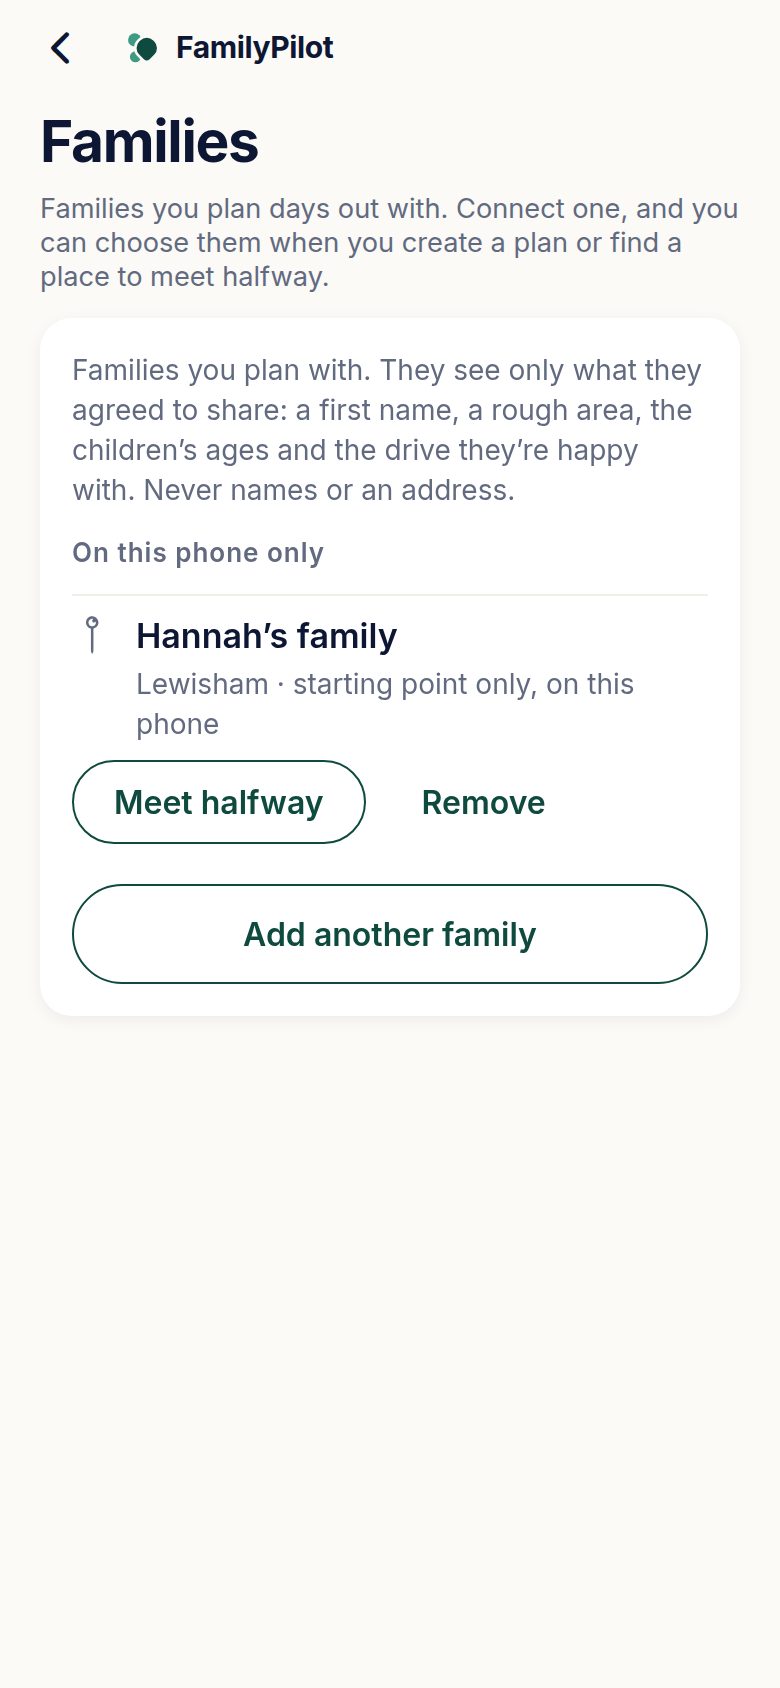
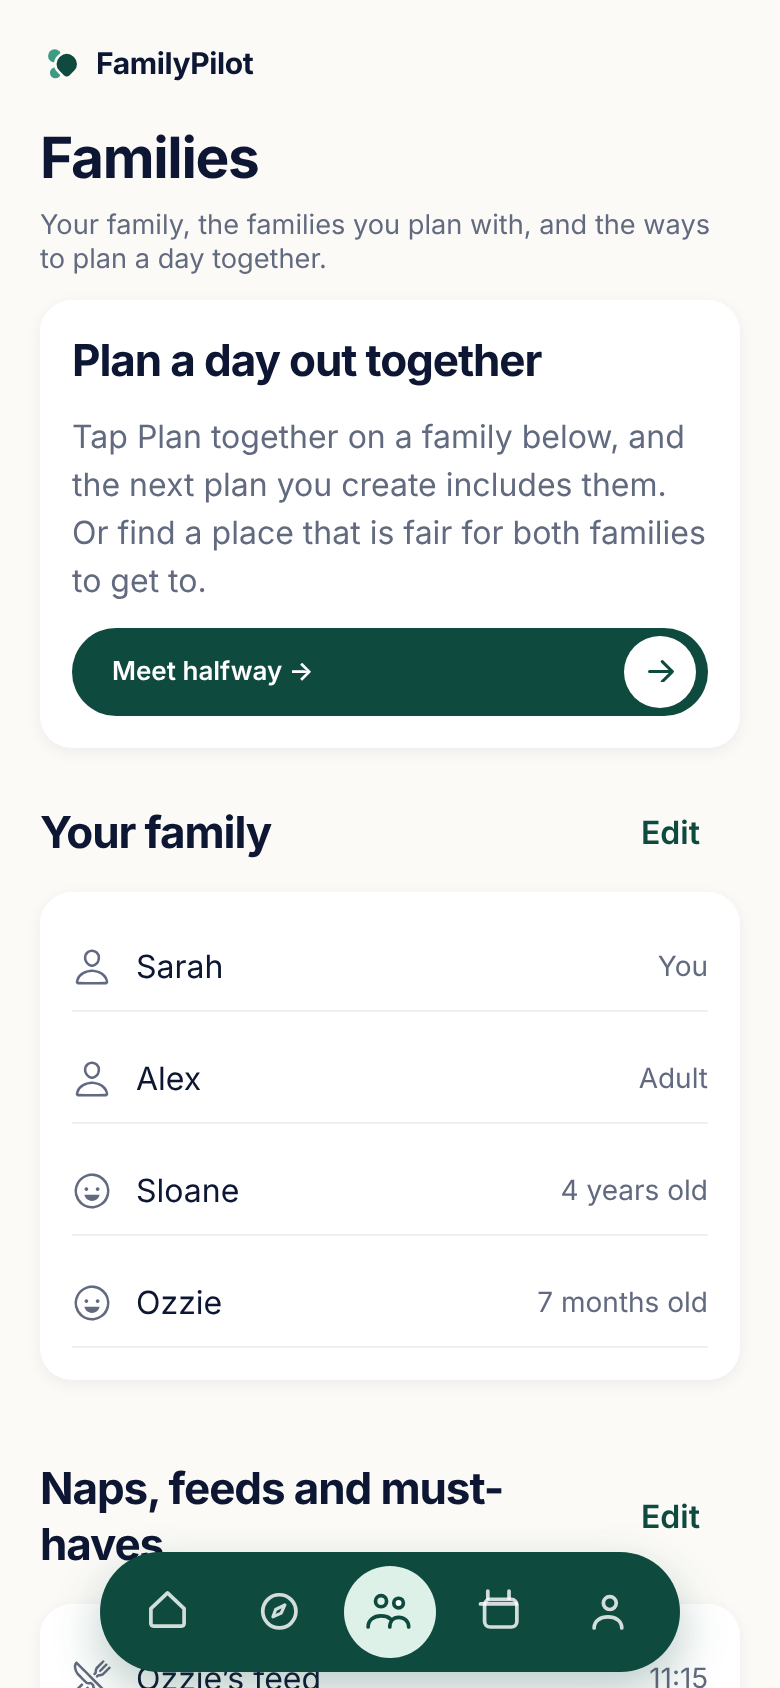
Verification pass: scripts follow the new navigation, timeline model polish, refreshed screenshots and review notes
The account journey now drives the Families tab (72 checks, including that a
connected family's card carries no child name while the owner's own household
shows under Your family) and the nav-clearance check scrolls from the lower
part of the screen so the shortest phone is measured on its list rather than
its fixed header. The timeline says drive on every journey leg, keeps the
lunch row to the walk alternative and the place's facts, and shows a routine
that spans the visit and the move as one extended row.

docs/ux/screens/after is regenerated from this branch at 390 and 360 width, and
the review notes record the decisions taken, what is functional, and the
limitations.

Claude-Session: https://claude.ai/code/session_01B1rrDUPknqyRoBSdiYqTN3

diff --git a/familypilot/src/services/planning/plan-timeline.ts b/familypilot/src/services/planning/plan-timeline.ts
@@ -170,11 +170,11 @@ function visitBasisLine(input: PlanViewModelInput, phrase: (familyId: string, ro
   }
 }
 
-function lunchLines(stop: SequenceStop, input: PlanViewModelInput, legIn: SequenceLeg | undefined, children: TimelineChild[]): TimelineLine[] {
+function lunchLines(stop: SequenceStop, input: PlanViewModelInput, children: TimelineChild[]): TimelineLine[] {
   const lines: TimelineLine[] = [];
   const facts = input.lunchFacts;
   const from = input.anchorName;
-  if (legIn) lines.push(journeyLine(legIn, null));
+  // The drive the day was timed with is on the "Leave for lunch" row; a walk the discovery found is the alternative.
   if (facts?.walkMinutes !== undefined) {
     const n = Math.max(1, Math.round(facts.walkMinutes));
     lines.push(
@@ -257,7 +257,7 @@ export function planTimeline(input: PlanViewModelInput, context: TimelineContext
         until: stop.depart,
         title: `Lunch at ${stop.name}`,
         tone: 'quiet',
-        lines: lunchLines(stop, input, legIn, children),
+        lines: lunchLines(stop, input, children),
         edit: 'lunch',
         stopIndex: stop.index,
       });

diff --git a/familypilot/src/__tests__/plan-timeline.test.ts b/familypilot/src/__tests__/plan-timeline.test.ts
@@ -142,8 +142,8 @@ describe('a day with a feed during the visit, lunch nearby and a nap at home aft
     const lunch = rows.find((r) => r.kind === 'lunch')!;
     expect(lunch.title).toBe('Lunch at Forest Hill Kitchen');
     expect(lunch.edit).toBe('lunch');
+    expect(rows[5].lines[0]).toEqual({ text: 'About 5 min drive plus 15 min to settle, estimated from distance to Forest Hill Kitchen.', provenance: 'estimated' });
     expect(lunch.lines).toEqual([
-      { text: 'About 5 min drive plus 15 min to settle, estimated from distance.', provenance: 'estimated' },
       { text: 'Or about a 6-minute walk from Horniman Museum and Gardens, estimated from distance.', provenance: 'estimated' },
       { text: 'High chairs, baby changing listed on OpenStreetMap, which matters with Ozzie.', provenance: 'reported' },
       { text: 'British, as listed.', provenance: 'reported' },

diff --git a/docs/ux/BETA_UX_REVIEW_2026-10-11.md b/docs/ux/BETA_UX_REVIEW_2026-10-11.md
@@ -1,8 +1,8 @@
 # FamilyPilot beta UX review — 11 October 2026
 
-Branch: `ux/beta-polish` (from `main` bc19ba5). Nothing here is merged or deployed. Status of each item is marked
-**Implemented** (on the branch, tested, screenshots in `docs/ux/screens/`), **Decision needed** (a product choice for the
-founder) or **Later** (after beta).
+Branch: `ux/beta-polish` (from `main` bc19ba5). Nothing here is merged or deployed. Sections 1 to 7 are the review and
+the proposals as they were put to the founder; section 8 records the decisions taken and what the branch now holds.
+Screenshots: `docs/ux/screens/before/` (production bundle at bc19ba5) and `docs/ux/screens/after/` (this branch).
 
 ## 1. What was inspected
 
@@ -177,3 +177,88 @@ branch ships D1; D2 is a one-line change in each screen plus the art offsets.
   halfway-second-on-map, plan-tight, plan-earlier.
 - Interactions claimed to work were driven in the browser: tapping a Halfway card puts it on the map and scrolls it into
   view; the "Leave at 11:45" chip rebuilds the plan and the warning gives way to the tick.
+
+## 8. Decisions taken and what the branch holds
+
+The founder approved: five tabs **Home · Explore · Families · Plans · Profile** with Families as a dedicated hub (not
+the Halfway screen); the editable timeline, step 1; Meet halfway map-first with numbered pins; the brand lockup on Home
+and Explore (D2); and the four corrections in §4. All of it is on this branch.
+
+### Navigation and branding
+
+- Tabs are Home · Explore · Families · Plans · Profile (`app/(tabs)/_layout.tsx`); the pill keeps the approved geometry
+  and a Families glyph is drawn in both approved stroke languages (`icons.tsx`). No sixth tab.
+- Meet halfway is a stack screen at the same `/halfway` URL (`app/halfway.tsx`), reached from every family's card on
+  Families, from the hub's own "Meet halfway" action, and from a shortcut on Plans. Plans keeps plans and saved plans
+  only; its "Families & routines" chip (the duplicate families model) is gone.
+- The brand row (`BrandLockup`, 44 pt) sits above the approved Home and Explore headers. Home's greeting and the marks
+  drawn beside it move up together (`ART_LIFT`), Explore's header marks move down by the row, so the approved geometry
+  holds beneath the lockup. The same row heads every section page through `PageHeader`.
+
+### Families hub (`app/(tabs)/families.tsx`)
+
+Top to bottom: **Plan a day out together** (Plan together keeps the chosen family's id, `planningWith`, so the next plan
+sheet opens with them under Who's coming and Explore shows "Planning with Hannah's family · Done"; Meet halfway one tap
+away); **Your family** (people and ages, Edit); **Naps, feeds and must-haves** (the routines the planner uses, Edit, and
+the line that they stay private: a connected family sees the times only if sharing is turned on, never a name);
+**Connected families** as cards with a status caption ("Connected", "Connected · planning together", "On this phone only
+· not connected"), the shared summary, and Plan together / Meet halfway / What I share / Edit / Disconnect.
+
+What is genuinely functional: connections are the existing Supabase invitation system (create a link, accept, what I
+share, disconnect) with the same consent defaults (routine sharing starts off), exercised end to end by
+`scripts/verify-account-journey.mjs` (72 checks). A family added by postcode is on this phone only and its card says so.
+Nothing new is read from or written to a connection: the hub stores one id. Deferred: a shared plan that both families
+edit (plan invites remain the existing one-way "invite a family to this plan").
+
+### Editable timeline (`plan-timeline.ts`, `PlanTimeline.tsx`, `app/plan.tsx`, `app/saved-plan.tsx`)
+
+Rows: leave home, arrive (hours, parking, pushchair, baby changing for under-threes, recommended ages against the
+children), explore until the next feed or nap, the routine itself with the facility that matters, carry on, leave for
+lunch, lunch (the walk, what the mappers listed and why it matters, how long, hours), leave for home, home (the margin
+before the next routine at home), the routine at home. Every line carries **confirmed / estimated / suggested / reported
+/ unknown**. A routine that falls during a drive is a row where it falls; one that starts in the visit and carries on into
+the move is one row, extended.
+
+Edits: Change arrival (half-hour chips or any time), Change how long (the plan sheet's lengths), Change lunch (the
+OpenStreetMap candidates already fetched for the venue, nearest first, with what the mappers listed; or take lunch out),
+Leave earlier (the tight-margin advice's verified option). Each edit changes the plan's URL parameters, so the real
+scheduler re-runs with the same journey matrix: no new journey request, no Google call. Saving keeps the answers the day
+was built from (`SavedDay.draft`); a saved day shows the same timeline with "Edit this plan", which reopens the Plan
+screen from those answers, and saving again replaces that day (same id, same place in Plans). Saving is confirmed by
+reading the day back from storage by id and content; a refused edit restores the old day. Stops cannot be added, removed
+or reordered (after beta, as agreed).
+
+### Meet halfway, map first
+
+The Map / List control and the map stay at the top of the screen (`stickyHeaderIndices`) while the cards scroll under
+it. Every recommended place is a numbered pin matching its card; the place in focus is the filled green pin and badge,
+the others outlined; tapping a card selects its pin, tapping a pin scrolls to its card; the selected name is shown beside
+the control. Each family's journey is its own line, labelled estimated; the ranking note says the numbers are the cards'
+order and the midpoint is not the method; no score is printed. The map is still the device-drawn basemap: no tiles, no
+provider, no request.
+
+### Verification
+
+- `tsc --noEmit` clean. `vitest run`: 205 files, 3478 passed (the `remediation` web static-route tests need a web build first and
+  pass under `npm run test:routes`). New tests: `navigation-tabs` (16), `families-hub` (13), `plan-timeline`
+  (12, driven through the real planner), `save-plan-flow` (+3 for replacing an edited day).
+- Browser, fixture build, iPhone 390×844 and 360×780: five tabs reachable; the hub, Plan together → Explore banner →
+  plan sheet with the family preselected → Done; Meet halfway with two families and four numbered pins, card → pin and
+  pin → card, the map still on screen after scrolling, List mode; the timeline built, arrival changed to 10:30, visit
+  to 1 hour (the nap margin went from 6 min, tight, to 36 min), lunch changed to a second real candidate, saved, reopened
+  from Plans with the same rows, edited again from the saved day and saved again as the same day (one row in Plans).
+  Zero requests to Google in every run.
+- `scripts/verify-account-journey.mjs`: 72/72 (sign-up, verification, invitation link, acceptance, what each side sees,
+  the Families tab, sharing update, disconnect). `scripts/verify-nav-clearance.mjs`: every tab at seven sizes.
+- Private data: the hub reads no connection data beyond the existing section; the bundle carries no profile data (the
+  one fixture name in it is the long-standing mock venue copy); routines are shown only to their own household.
+
+### Known limitations
+
+- "Find activities for both families" is Plan together (the next plan is built for both households by the multi-family
+  planner) rather than a separate filtered list; Explore's ranking itself is unchanged.
+- The journey legs the timeline reports are the planner's own (driving, measured or estimated from distance); the walk
+  to lunch from the discovery is offered on the lunch row as an alternative, not used for timing.
+- Restaurant alternatives exist only where the venue's nearby-food discovery found candidates; where it found none the
+  sheet says so and offers nothing invented.
+- Demonstrated against the fixture build (synthetic venues, in-memory accounts); nothing here was run against production.
